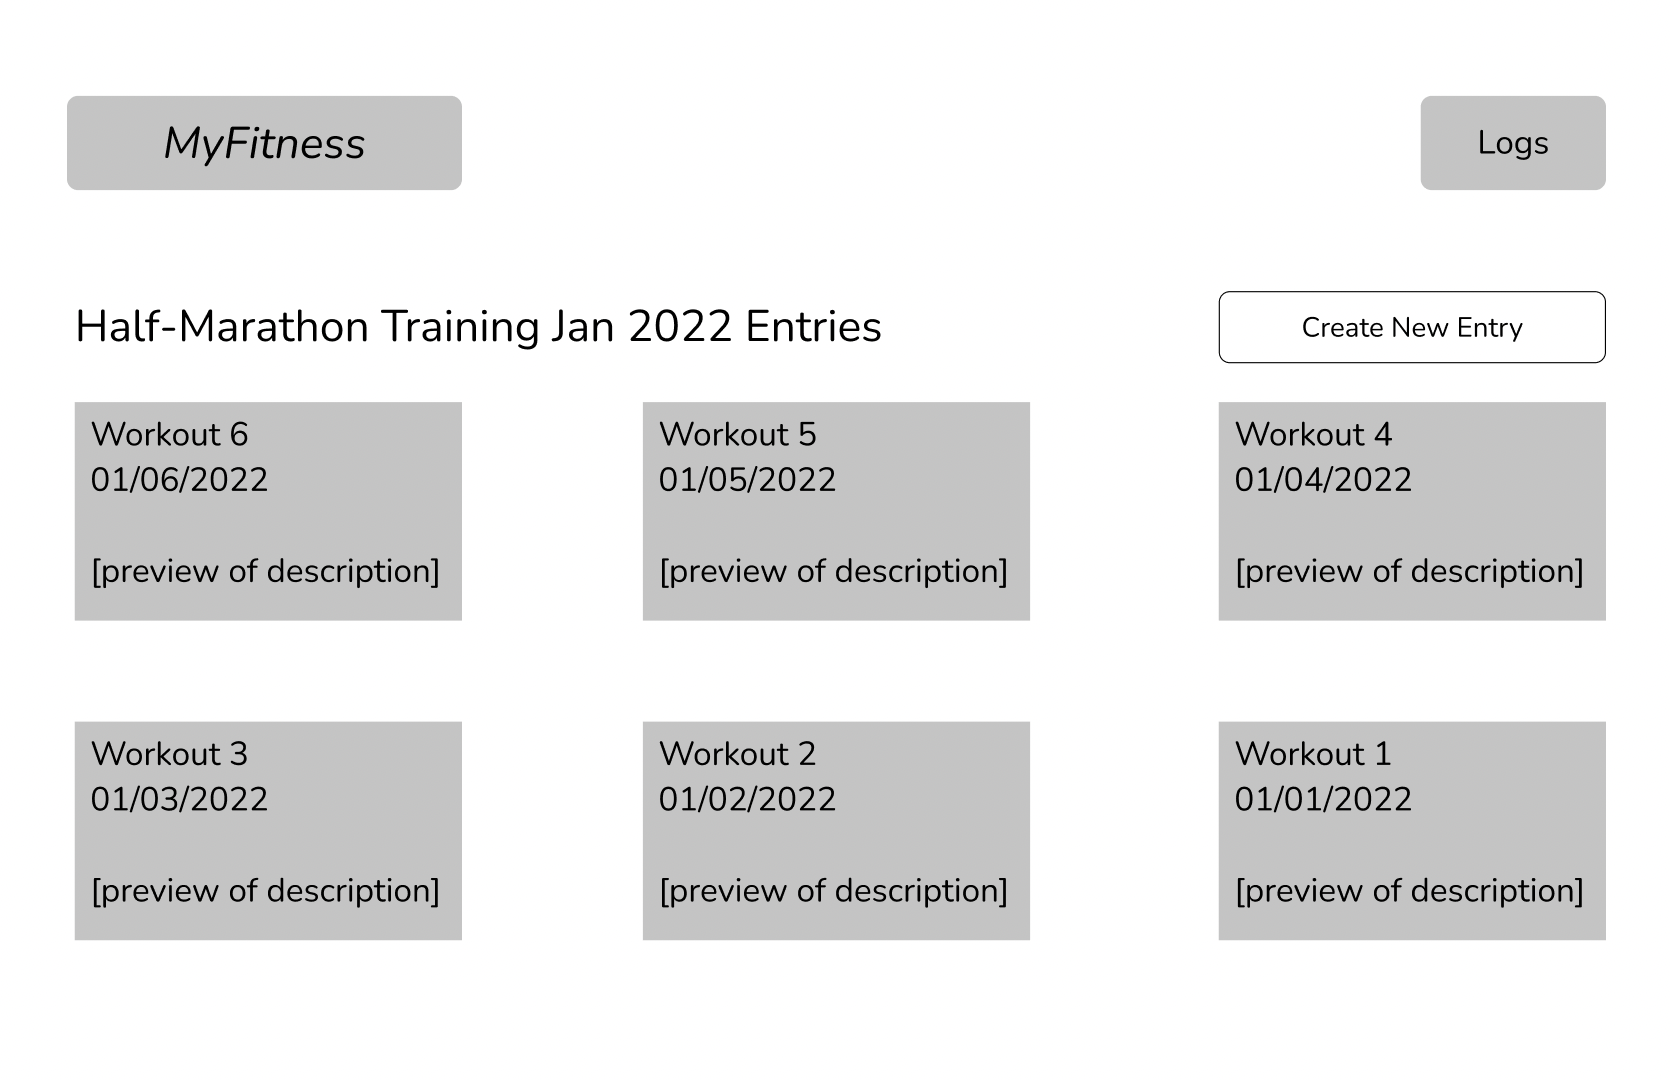
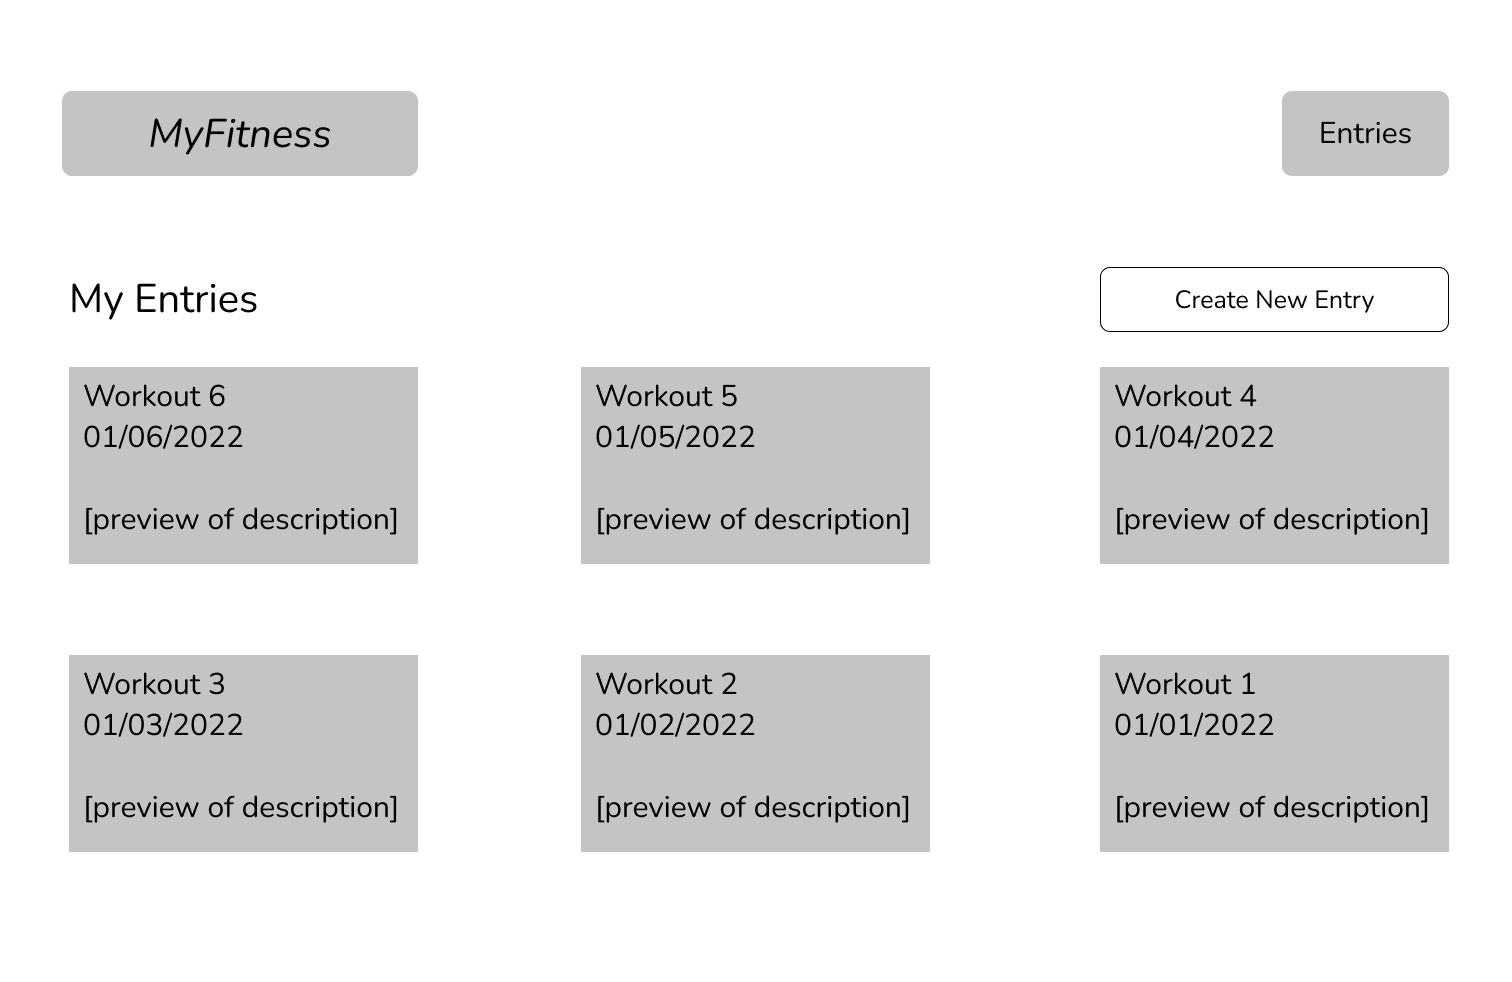
updated user stories and wireframes to match updated sitemap and schemas

diff --git a/db.js b/db.js
@@ -5,7 +5,7 @@ const mongoose = require('mongoose'),
 const User = new mongoose.Schema({
 	username: {type: String, required: true},
 	password: {type: String, required: true},
-  	logs: [{ type: mongoose.Schema.Types.ObjectId, ref: 'Log' }]
+  	log: { type: mongoose.Schema.Types.ObjectId, ref: 'Log' }
 });
 
 const Entry = new mongoose.Schema({
@@ -16,12 +16,11 @@ const Entry = new mongoose.Schema({
 
 const Log = new mongoose.Schema({
 	user: {type: mongoose.Schema.Types.ObjectId, ref:'User'},
-	name: {type: String, required: true},
 	items: [Entry]
 });
 
 User.plugin(passportLocalMongoose);
-Log.plugin(URLSlugs('name'));
+Log.plugin(URLSlugs('user'));
 Entry.plugin(URLSlugs('title'));
 
 mongoose.model('User', User);

diff --git a/README.md b/README.md
@@ -13,8 +13,8 @@ However, it's not easy to keep track of all that information! MyFitness is a web
 
 The application will store Users, Logs and Entries.
 
-* users can have multiple logs (via references)
-* each log can have multiple entries (by references)
+* users have one log (via references)
+* each log can have multiple entries (embedded)
 
 An Example User:
 
@@ -22,17 +22,17 @@ An Example User:
 {
   username: "runneralice",
   hash: // a password hash (which includes the salt),
-  logs: [] // an array of references to Log documents
+  log: // a reference to a Log document
 }
 ```
 
-An Example Log with Reference Entries:
+An Example Log with Embedded Entries:
 
 ```javascript
 {
   user: // a reference to a User object
   name: "Half Marathon Training",
-  items: [], // an array of references to Entry documents
+  items: [], // an array of Entry documents
 }
 ```
 
@@ -54,29 +54,23 @@ An Example Entry:
 / - home page, welcome users
 ![home page](documentation/home.png)
 
-/about - page about the site
-![about page](documentation/about.png)
+/register - page for users to register (create an account)
+![login/register page](documentation/register.png)
 
-/login - page for users to login or register
-![login/register page](documentation/loginregister.png)
+/login - page for users to login to their account
+![login/register page](documentation/login.png)
 
-/logs - page for showing all logs
-![logs page](documentation/logs.png)
+/entries/slug - page for showing all entries
+![logs page](documentation/entries.png)
 
-/createlog - page for creating a log
-![create log page](documentation/createlog.png)
+/create - page for creating a new entry
+![create an entry page](documentation/create.png)
 
-/entries/slug - page for all entries for the given log
-![entries page](documentation/entries.png)
+/view/slug - page for viewing an entry
+![view entry page](documentation/entry.png)
 
-/entry/slug - page for specific entry
-![specific entry page](documentation/entry.png)
-
-/entry/modify/slug - page for modifying an existing entry
-![modify entry page](documentation/modifyentry.png)
-
-/createentry - page for creating an entry for a given log
-![create entry page](documentation/createentry.png)
+/modify - page for modifying an entry
+![modify entry page](documentation/modify.png)
 
 
 ## Site map
@@ -88,21 +82,17 @@ An Example Entry:
 
 1. As non-registered user, I can register a new account with the site.
 2. As a user, I can log in to the site.
-3. As a user, I can see all of my logs in a single list / table format.
-4. As a user, I can create a new log.
-5. As a user, I can see the entries (title, date and preview) of a specific log in a single list / table format.
-6. As a user, I can create a new entry (title, date, description) in a log.
-7. As a user, I can modify an existing entry (including deleting the entry) in a log.
-8. As a visitor to the page, I can see the "About" page to learn more information about the site.
+3. As a user, I can see all of my entries (title, date and preview) in a single list / table format.
+4. As a user, I can create a new entry (title, date, description) in a log.
+5. As a user, I can modify an existing entry (including deleting the entry) in a log.
+6. As a visitor to the page, I can see the home page to learn more information about the site.
 
 
 ## Research Topics
 
 * (5 points) Integrate user authentication
     * I'm going to be using passport for user authentication
-    * And account has been made for testing; I'll email you the password
-    * see <code>cs.nyu.edu/~jversoza/ait-final/register</code> for register page
-    * see <code>cs.nyu.edu/~jversoza/ait-final/login</code> for login page
+    * An account has been made for testing; I'll email you the password
 * (4 points) Perform client side form validation using a JavaScript library
     * see <code>cs.nyu.edu/~jversoza/ait-final/my-form</code>
     * if you put in a number that's greater than 5, an error message will appear in the dom
